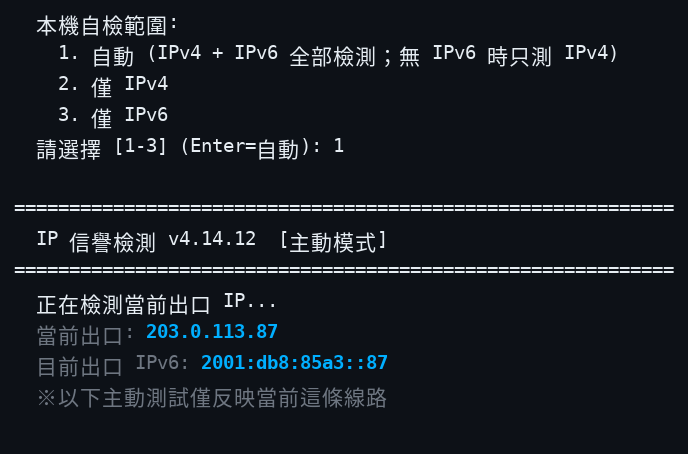
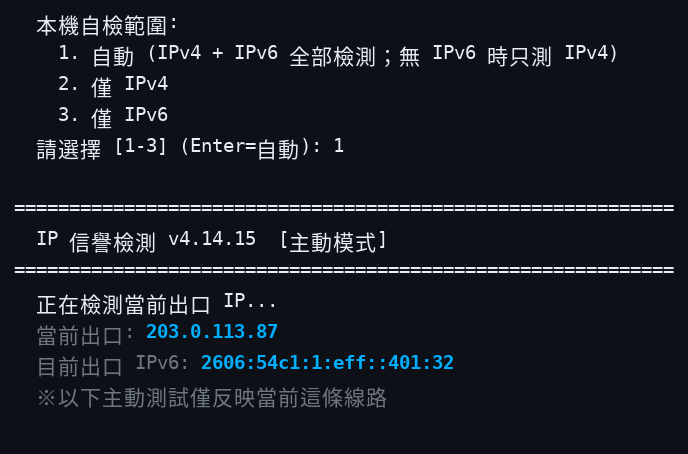
update

Changed region(s): [[0.3052, 0.7709, 0.6715, 0.8326]]

diff --git a/acheck.py b/acheck.py
@@ -1,6 +1,6 @@
 #!/usr/bin/env python3
 """
-IP 信誉检测 v4.14.14 — 全量修复与并发优化公开版 (零 API Key 依赖)
+IP 信誉检测 v4.14.15 — 全量修复与并发优化公开版 (零 API Key 依赖)
 
 被动模式: 仅凭 IP 地址做公开情报查询，不发起任何指向该 IP 的主动连接。
   适用: 评估尚未启用的候选 IP (如 AWS EIP)。
@@ -46,14 +46,14 @@ import unicodedata
 import urllib.error
 import urllib.parse
 import urllib.request
-from concurrent.futures import ThreadPoolExecutor, as_completed
+from concurrent.futures import ThreadPoolExecutor, as_completed, TimeoutError as _CFTimeoutError
 from datetime import datetime, timezone
 import argparse
 import http.client
 
 # stdio 编码初始化统一在 _init_console() 内进行 (仅主程序运行时), import 本文件不产生副作用。
 
-VERSION = "4.14.14"
+VERSION = "4.14.15"
 
 
 def _init_console():
@@ -2088,6 +2088,11 @@ class PTRCheck(Provider):
 # ---- 显示层本地化查表 (数据源无语言参数时, 国家名/时区名按界面语言呈现) ----
 _CC_EN = {'united states': 'US', 'united states of america': 'US', 'canada': 'CA', 'germany': 'DE', 'france': 'FR', 'japan': 'JP', 'south korea': 'KR', 'korea': 'KR', 'singapore': 'SG', 'india': 'IN', 'brazil': 'BR', 'russia': 'RU', 'united kingdom': 'GB', 'netherlands': 'NL', 'switzerland': 'CH', 'sweden': 'SE', 'norway': 'NO', 'finland': 'FI', 'denmark': 'DK', 'austria': 'AT', 'belgium': 'BE', 'ireland': 'IE', 'poland': 'PL', 'turkey': 'TR', 'mexico': 'MX', 'argentina': 'AR', 'chile': 'CL', 'colombia': 'CO', 'peru': 'PE', 'egypt': 'EG', 'nigeria': 'NG', 'kenya': 'KE', 'morocco': 'MA', 'israel': 'IL', 'united arab emirates': 'AE', 'saudi arabia': 'SA', 'qatar': 'QA', 'kuwait': 'KW', 'iran': 'IR', 'iraq': 'IQ', 'pakistan': 'PK', 'bangladesh': 'BD', 'thailand': 'TH', 'vietnam': 'VN', 'indonesia': 'ID', 'malaysia': 'MY', 'philippines': 'PH', 'taiwan': 'TW', 'hong kong': 'HK', 'china': 'CN', 'australia': 'AU', 'new zealand': 'NZ', 'south africa': 'ZA', 'greece': 'GR', 'portugal': 'PT', 'czechia': 'CZ', 'hungary': 'HU', 'romania': 'RO', 'ukraine': 'UA', 'italy': 'IT', 'spain': 'ES'}
 _COUNTRY_NAMES = {'zh': {'US': '美国', 'CA': '加拿大', 'DE': '德国', 'FR': '法国', 'JP': '日本', 'KR': '韩国', 'SG': '新加坡', 'IN': '印度', 'BR': '巴西', 'RU': '俄罗斯', 'GB': '英国', 'NL': '荷兰', 'CH': '瑞士', 'SE': '瑞典', 'NO': '挪威', 'FI': '芬兰', 'DK': '丹麦', 'AT': '奥地利', 'BE': '比利时', 'IE': '爱尔兰', 'PL': '波兰', 'TR': '土耳其', 'MX': '墨西哥', 'AR': '阿根廷', 'CL': '智利', 'CO': '哥伦比亚', 'PE': '秘鲁', 'EG': '埃及', 'NG': '尼日利亚', 'KE': '肯尼亚', 'MA': '摩洛哥', 'IL': '以色列', 'AE': '阿联酋', 'SA': '沙特阿拉伯', 'QA': '卡塔尔', 'KW': '科威特', 'IR': '伊朗', 'IQ': '伊拉克', 'PK': '巴基斯坦', 'BD': '孟加拉国', 'TH': '泰国', 'VN': '越南', 'ID': '印度尼西亚', 'MY': '马来西亚', 'PH': '菲律宾', 'TW': '台湾', 'HK': '香港', 'CN': '中国', 'AU': '澳大利亚', 'NZ': '新西兰', 'ZA': '南非', 'GR': '希腊', 'PT': '葡萄牙', 'CZ': '捷克', 'HU': '匈牙利', 'RO': '罗马尼亚', 'UA': '乌克兰', 'IT': '意大利', 'ES': '西班牙'}, 'zh-TW': {'US': '美國', 'CA': '加拿大', 'DE': '德國', 'FR': '法國', 'JP': '日本', 'KR': '韓國', 'SG': '新加坡', 'IN': '印度', 'BR': '巴西', 'RU': '俄羅斯', 'GB': '英國', 'NL': '荷蘭', 'CH': '瑞士', 'SE': '瑞典', 'NO': '挪威', 'FI': '芬蘭', 'DK': '丹麥', 'AT': '奧地利', 'BE': '比利時', 'IE': '愛爾蘭', 'PL': '波蘭', 'TR': '土耳其', 'MX': '墨西哥', 'AR': '阿根廷', 'CL': '智利', 'CO': '哥倫比亞', 'PE': '秘魯', 'EG': '埃及', 'NG': '奈及利亞', 'KE': '肯亞', 'MA': '摩洛哥', 'IL': '以色列', 'AE': '阿聯酋', 'SA': '沙烏地阿拉伯', 'QA': '卡達', 'KW': '科威特', 'IR': '伊朗', 'IQ': '伊拉克', 'PK': '巴基斯坦', 'BD': '孟加拉國', 'TH': '泰國', 'VN': '越南', 'ID': '印度尼西亞', 'MY': '馬來西亞', 'PH': '菲律賓', 'TW': '台灣', 'HK': '香港', 'CN': '中國', 'AU': '澳大利亞', 'NZ': '紐西蘭', 'ZA': '南非', 'GR': '希臘', 'PT': '葡萄牙', 'CZ': '捷克', 'HU': '匈牙利', 'RO': '羅馬尼亞', 'UA': '烏克蘭', 'IT': '義大利', 'ES': '西班牙'}, 'ja': {'US': 'アメリカ', 'CA': 'カナダ', 'DE': 'ドイツ', 'FR': 'フランス', 'JP': '日本', 'KR': '韓国', 'SG': 'シンガポール', 'IN': 'インド', 'BR': 'ブラジル', 'RU': 'ロシア', 'GB': 'イギリス', 'NL': 'オランダ', 'CH': 'スイス', 'SE': 'スウェーデン', 'NO': 'ノルウェー', 'FI': 'フィンランド', 'DK': 'デンマーク', 'AT': 'オーストリア', 'BE': 'ベルギー', 'IE': 'アイルランド', 'PL': 'ポーランド', 'TR': 'トルコ', 'MX': 'メキシコ', 'AR': 'アルゼンチン', 'CL': 'チリ', 'CO': 'コロンビア', 'PE': 'ペルー', 'EG': 'エジプト', 'NG': 'ナイジェリア', 'KE': 'ケニア', 'MA': 'モロッコ', 'IL': 'イスラエル', 'AE': 'アラブ首長国連邦', 'SA': 'サウジアラビア', 'QA': 'カタール', 'KW': 'クウェート', 'IR': 'イラン', 'IQ': 'イラク', 'PK': 'パキスタン', 'BD': 'バングラデシュ', 'TH': 'タイ', 'VN': 'ベトナム', 'ID': 'インドネシア', 'MY': 'マレーシア', 'PH': 'フィリピン', 'TW': '台湾', 'HK': '香港', 'CN': '中国', 'AU': 'オーストラリア', 'NZ': 'ニュージーランド', 'ZA': '南アフリカ', 'GR': 'ギリシャ', 'PT': 'ポルトガル', 'CZ': 'チェコ', 'HU': 'ハンガリー', 'RO': 'ルーマニア', 'UA': 'ウクライナ', 'IT': 'イタリア', 'ES': 'スペイン'}, 'ru': {'US': 'США', 'CA': 'Канада', 'DE': 'Германия', 'FR': 'Франция', 'JP': 'Япония', 'KR': 'Южная Корея', 'SG': 'Сингапур', 'IN': 'Индия', 'BR': 'Бразилия', 'RU': 'Россия', 'GB': 'Великобритания', 'NL': 'Нидерланды', 'CH': 'Швейцария', 'SE': 'Швеция', 'NO': 'Норвегия', 'FI': 'Финляндия', 'DK': 'Дания', 'AT': 'Австрия', 'BE': 'Бельгия', 'IE': 'Ирландия', 'PL': 'Польша', 'TR': 'Турция', 'MX': 'Мексика', 'AR': 'Аргентина', 'CL': 'Чили', 'CO': 'Колумбия', 'PE': 'Перу', 'EG': 'Египет', 'NG': 'Нигерия', 'KE': 'Кения', 'MA': 'Марокко', 'IL': 'Израиль', 'AE': 'ОАЭ', 'SA': 'Саудовская Аравия', 'QA': 'Катар', 'KW': 'Кувейт', 'IR': 'Иран', 'IQ': 'Ирак', 'PK': 'Пакистан', 'BD': 'Бангладеш', 'TH': 'Таиланд', 'VN': 'Вьетнам', 'ID': 'Индонезия', 'MY': 'Малайзия', 'PH': 'Филиппины', 'TW': 'Тайвань', 'HK': 'Гонконг', 'CN': 'Китай', 'AU': 'Австралия', 'NZ': 'Новая Зеландия', 'ZA': 'ЮАР', 'GR': 'Греция', 'PT': 'Португалия', 'CZ': 'Чехия', 'HU': 'Венгрия', 'RO': 'Румыния', 'UA': 'Украина', 'IT': 'Италия', 'ES': 'Испания'}, 'fa': {'US': 'آمریکا', 'CA': 'کانادا', 'DE': 'آلمان', 'FR': 'فرانسه', 'JP': 'ژاپن', 'KR': 'کره جنوبی', 'SG': 'سنگاپور', 'IN': 'هند', 'BR': 'برزیل', 'RU': 'روسیه', 'GB': 'بریتانیا', 'NL': 'هلند', 'CH': 'سوئیس', 'SE': 'سوئد', 'NO': 'نروژ', 'FI': 'فنلاند', 'DK': 'دانمارک', 'AT': 'اتریش', 'BE': 'بلژیک', 'IE': 'ایرلند', 'PL': 'لهستان', 'TR': 'ترکیه', 'MX': 'مکزیک', 'AR': 'آرژانتین', 'CL': 'شیلی', 'CO': 'کلمبیا', 'PE': 'پرو', 'EG': 'مصر', 'NG': 'نیجریه', 'KE': 'کنیا', 'MA': 'مراکش', 'IL': 'اسرائیل', 'AE': 'امارات', 'SA': 'عربستان سعودی', 'QA': 'قطر', 'KW': 'کویت', 'IR': 'ایران', 'IQ': 'عراق', 'PK': 'پاکستان', 'BD': 'بنگلادش', 'TH': 'تایلند', 'VN': 'ویتنام', 'ID': 'اندونزی', 'MY': 'مالزی', 'PH': 'فیلیپین', 'TW': 'تایوان', 'HK': 'هنگ\u200cکنگ', 'CN': 'چین', 'AU': 'استرالیا', 'NZ': 'نیوزیلند', 'ZA': 'آفریقای جنوبی', 'GR': 'یونان', 'PT': 'پرتغال', 'CZ': 'چک', 'HU': 'مجارستان', 'RO': 'رومانی', 'UA': 'اوکراین', 'IT': 'ایتالیا', 'ES': 'اسپانیا'}}
+_CC_EN.update({'afghanistan': 'AF', 'albania': 'AL', 'algeria': 'DZ', 'american samoa': 'AS', 'andorra': 'AD', 'angola': 'AO', 'anguilla': 'AI', 'antarctica': 'AQ', 'antigua and barbuda': 'AG', 'armenia': 'AM', 'aruba': 'AW', 'azerbaijan': 'AZ', 'bahamas': 'BS', 'bahrain': 'BH', 'barbados': 'BB', 'belarus': 'BY', 'belize': 'BZ', 'benin': 'BJ', 'bermuda': 'BM', 'bhutan': 'BT', 'bolivia': 'BO', 'bosnia and herzegovina': 'BA', 'botswana': 'BW', 'brunei': 'BN', 'bulgaria': 'BG', 'burkina faso': 'BF', 'burundi': 'BI', 'cambodia': 'KH', 'cameroon': 'CM', 'cape verde': 'CV', 'cayman islands': 'KY', 'central african republic': 'CF', 'chad': 'TD', 'comoros': 'KM', 'congo': 'CG', 'congo (democratic republic)': 'CD', 'cook islands': 'CK', 'costa rica': 'CR', 'croatia': 'HR', 'cuba': 'CU', 'cyprus': 'CY', 'djibouti': 'DJ', 'dominica': 'DM', 'dominican republic': 'DO', 'ecuador': 'EC', 'el salvador': 'SV', 'equatorial guinea': 'GQ', 'eritrea': 'ER', 'estonia': 'EE', 'eswatini': 'SZ', 'ethiopia': 'ET', 'falkland islands': 'FK', 'faroe islands': 'FO', 'fiji': 'FJ', 'gabon': 'GA', 'gambia': 'GM', 'georgia': 'GE', 'ghana': 'GH', 'gibraltar': 'GI', 'greenland': 'GL', 'grenada': 'GD', 'guam': 'GU', 'guatemala': 'GT', 'guinea': 'GN', 'guinea-bissau': 'GW', 'guyana': 'GY', 'haiti': 'HT', 'honduras': 'HN', 'iceland': 'IS', 'jamaica': 'JM', 'jordan': 'JO', 'kazakhstan': 'KZ', 'kiribati': 'KI', 'kosovo': 'XK', 'kyrgyzstan': 'KG', 'laos': 'LA', 'latvia': 'LV', 'lebanon': 'LB', 'lesotho': 'LS', 'liberia': 'LR', 'libya': 'LY', 'liechtenstein': 'LI', 'lithuania': 'LT', 'luxembourg': 'LU', 'macau': 'MO', 'madagascar': 'MG', 'malawi': 'MW', 'maldives': 'MV', 'mali': 'ML', 'malta': 'MT', 'marshall islands': 'MH', 'mauritania': 'MR', 'mauritius': 'MU', 'micronesia': 'FM', 'moldova': 'MD', 'monaco': 'MC', 'mongolia': 'MN', 'montenegro': 'ME', 'mozambique': 'MZ', 'myanmar': 'MM', 'namibia': 'NA', 'nepal': 'NP', 'nicaragua': 'NI', 'niger': 'NE', 'north korea': 'KP', 'north macedonia': 'MK', 'northern mariana islands': 'MP', 'oman': 'OM', 'palau': 'PW', 'palestine': 'PS', 'panama': 'PA', 'papua new guinea': 'PG', 'paraguay': 'PY', 'puerto rico': 'PR', 'rwanda': 'RW', 'saint kitts and nevis': 'KN', 'saint lucia': 'LC', 'samoa': 'WS', 'san marino': 'SM', 'sao tome and principe': 'ST', 'senegal': 'SN', 'serbia': 'RS', 'seychelles': 'SC', 'sierra leone': 'SL', 'slovakia': 'SK', 'slovenia': 'SI', 'solomon islands': 'SB', 'somalia': 'SO', 'south sudan': 'SS', 'sri lanka': 'LK', 'sudan': 'SD', 'suriname': 'SR', 'syria': 'SY', 'tajikistan': 'TJ', 'tanzania': 'TZ', 'timor-leste': 'TL', 'togo': 'TG', 'tonga': 'TO', 'trinidad and tobago': 'TT', 'tunisia': 'TN', 'turkmenistan': 'TM', 'tuvalu': 'TV', 'uganda': 'UG', 'uruguay': 'UY', 'uzbekistan': 'UZ', 'vanuatu': 'VU', 'venezuela': 'VE', 'yemen': 'YE', 'zambia': 'ZM', 'zimbabwe': 'ZW', 'guernsey': 'GG', 'jersey': 'JE', 'isle of man': 'IM', 'aland': 'AX', 'curacao': 'CW', 'sint maarten': 'SX', 'bonaire': 'BQ', 'saint barthelemy': 'BL', 'saint martin': 'MF', 'mayotte': 'YT', 'reunion': 'RE', 'martinique': 'MQ', 'guadeloupe': 'GP', 'french guiana': 'GF', 'french polynesia': 'PF', 'new caledonia': 'NC', 'niue': 'NU', 'norfolk island': 'NF', 'christmas island': 'CX', 'pitcairn': 'PN', 'saint helena': 'SH', 'montserrat': 'MS', 'british virgin islands': 'VG', 'u.s. virgin islands': 'VI', 'turks and caicos': 'TC'})
+_EXTRA_CN = {'zh': {'AF': '阿富汗', 'AL': '阿尔巴尼亚', 'DZ': '阿尔及利亚', 'AS': '美属萨摩亚', 'AD': '安道尔', 'AO': '安哥拉', 'AI': '安圭拉', 'AQ': '南极洲', 'AG': '安提瓜和巴布达', 'AM': '亚美尼亚', 'AW': '阿鲁巴', 'AZ': '阿塞拜疆', 'BS': '巴哈马', 'BH': '巴林', 'BB': '巴巴多斯', 'BY': '白俄罗斯', 'BZ': '伯利兹', 'BJ': '贝宁', 'BM': '百慕大', 'BT': '不丹', 'BO': '玻利维亚', 'BA': '波黑', 'BW': '博茨瓦纳', 'BN': '文莱', 'BG': '保加利亚', 'BF': '布基纳法索', 'BI': '布隆迪', 'KH': '柬埔寨', 'CM': '喀麦隆', 'CV': '佛得角', 'KY': '开曼群岛', 'CF': '中非共和国', 'TD': '乍得', 'KM': '科摩罗', 'CG': '刚果（布）', 'CD': '刚果（金）', 'CK': '库克群岛', 'CR': '哥斯达黎加', 'HR': '克罗地亚', 'CU': '古巴', 'CY': '塞浦路斯', 'DJ': '吉布提', 'DM': '多米尼克', 'DO': '多米尼加', 'EC': '厄瓜多尔', 'SV': '萨尔瓦多', 'GQ': '赤道几内亚', 'ER': '厄立特里亚', 'EE': '爱沙尼亚', 'SZ': '斯威士兰', 'ET': '埃塞俄比亚', 'FK': '福克兰群岛', 'FO': '法罗群岛', 'FJ': '斐济', 'GA': '加蓬', 'GM': '冈比亚', 'GE': '格鲁吉亚', 'GH': '加纳', 'GI': '直布罗陀', 'GL': '格陵兰', 'GD': '格林纳达', 'GU': '关岛', 'GT': '危地马拉', 'GN': '几内亚', 'GW': '几内亚比绍', 'GY': '圭亚那', 'HT': '海地', 'HN': '洪都拉斯', 'IS': '冰岛', 'JM': '牙买加', 'JO': '约旦', 'KZ': '哈萨克斯坦', 'KI': '基里巴斯', 'XK': '科索沃', 'KG': '吉尔吉斯斯坦', 'LA': '老挝', 'LV': '拉脱维亚', 'LB': '黎巴嫩', 'LS': '莱索托', 'LR': '利比里亚', 'LY': '利比亚', 'LI': '列支敦士登', 'LT': '立陶宛', 'LU': '卢森堡', 'MO': '澳门', 'MG': '马达加斯加', 'MW': '马拉维', 'MV': '马尔代夫', 'ML': '马里', 'MT': '马耳他', 'MH': '马绍尔群岛', 'MR': '毛里塔尼亚', 'MU': '毛里求斯', 'FM': '密克罗尼西亚', 'MD': '摩尔多瓦', 'MC': '摩纳哥', 'MN': '蒙古', 'ME': '黑山', 'MZ': '莫桑比克', 'MM': '缅甸', 'NA': '纳米比亚', 'NP': '尼泊尔', 'NI': '尼加拉瓜', 'NE': '尼日尔', 'KP': '朝鲜', 'MK': '北马其顿', 'MP': '北马里亚纳群岛', 'OM': '阿曼', 'PW': '帕劳', 'PS': '巴勒斯坦', 'PA': '巴拿马', 'PG': '巴布亚新几内亚', 'PY': '巴拉圭', 'PR': '波多黎各', 'RW': '卢旺达', 'KN': '圣基茨和尼维斯', 'LC': '圣卢西亚', 'WS': '萨摩亚', 'SM': '圣马力诺', 'ST': '圣多美和普林西比', 'SN': '塞内加尔', 'RS': '塞尔维亚', 'SC': '塞舌尔', 'SL': '塞拉利昂', 'SK': '斯洛伐克', 'SI': '斯洛文尼亚', 'SB': '所罗门群岛', 'SO': '索马里', 'SS': '南苏丹', 'LK': '斯里兰卡', 'SD': '苏丹', 'SR': '苏里南', 'SY': '叙利亚', 'TJ': '塔吉克斯坦', 'TZ': '坦桑尼亚', 'TL': '东帝汶', 'TG': '多哥', 'TO': '汤加', 'TT': '特立尼达和多巴哥', 'TN': '突尼斯', 'TM': '土库曼斯坦', 'TV': '图瓦卢', 'UG': '乌干达', 'UY': '乌拉圭', 'UZ': '乌兹别克斯坦', 'VU': '瓦努阿图', 'VE': '委内瑞拉', 'YE': '也门', 'ZM': '赞比亚', 'ZW': '津巴布韦', 'GG': '根西岛', 'JE': '泽西岛', 'IM': '马恩岛', 'AX': '奥兰群岛', 'CW': '库拉索', 'SX': '圣马丁（荷属）', 'BQ': '博奈尔', 'BL': '圣巴泰勒米', 'MF': '圣马丁（法属）', 'YT': '马约特', 'RE': '留尼汪', 'MQ': '马提尼克', 'GP': '瓜德罗普', 'GF': '法属圭亚那', 'PF': '法属波利尼西亚', 'NC': '新喀里多尼亚', 'NU': '纽埃', 'NF': '诺福克岛', 'CX': '圣诞岛', 'PN': '皮特凯恩群岛', 'SH': '圣赫勒拿', 'MS': '蒙特塞拉特', 'VG': '英属维尔京群岛', 'VI': '美属维尔京群岛', 'TC': '特克斯和凯科斯群岛'}, 'zh-TW': {'AF': '阿富汗', 'AL': '阿爾巴尼亞', 'DZ': '阿爾及利亞', 'AS': '美屬薩摩亞', 'AD': '安道爾', 'AO': '安哥拉', 'AI': '安圭拉', 'AQ': '南極洲', 'AG': '安提瓜和巴布達', 'AM': '亞美尼亞', 'AW': '阿魯巴', 'AZ': '亞塞拜然', 'BS': '巴哈馬', 'BH': '巴林', 'BB': '巴巴多斯', 'BY': '白俄羅斯', 'BZ': '貝里斯', 'BJ': '貝南', 'BM': '百慕達', 'BT': '不丹', 'BO': '玻利維亞', 'BA': '波赫', 'BW': '波札那', 'BN': '汶萊', 'BG': '保加利亞', 'BF': '布基納法索', 'BI': '布隆迪', 'KH': '柬埔寨', 'CM': '喀麥隆', 'CV': '維德角', 'KY': '開曼群島', 'CF': '中非共和國', 'TD': '查德', 'KM': '葛摩', 'CG': '剛果（布）', 'CD': '剛果（金）', 'CK': '庫克群島', 'CR': '哥斯大黎加', 'HR': '克羅埃西亞', 'CU': '古巴', 'CY': '塞浦路斯', 'DJ': '吉布提', 'DM': '多米尼克', 'DO': '多明尼加', 'EC': '厄瓜多', 'SV': '薩爾瓦多', 'GQ': '赤道幾內亞', 'ER': '厄利垂亞', 'EE': '愛沙尼亞', 'SZ': '史瓦帝尼', 'ET': '衣索比亞', 'FK': '福克蘭群島', 'FO': '法羅群島', 'FJ': '斐濟', 'GA': '加彭', 'GM': '甘比亞', 'GE': '喬治亞', 'GH': '迦納', 'GI': '直布羅陀', 'GL': '格陵蘭', 'GD': '格瑞那達', 'GU': '關島', 'GT': '瓜地馬拉', 'GN': '幾內亞', 'GW': '幾內亞比索', 'GY': '蓋亞那', 'HT': '海地', 'HN': '宏都拉斯', 'IS': '冰島', 'JM': '牙買加', 'JO': '約旦', 'KZ': '哈薩克斯坦', 'KI': '吉里巴斯', 'XK': '科索沃', 'KG': '吉爾吉斯斯坦', 'LA': '寮國', 'LV': '拉脫維亞', 'LB': '黎巴嫩', 'LS': '賴索托', 'LR': '賴比瑞亞', 'LY': '利比亞', 'LI': '列支敦斯登', 'LT': '立陶宛', 'LU': '盧森堡', 'MO': '澳門', 'MG': '馬達加斯加', 'MW': '馬拉威', 'MV': '馬爾地夫', 'ML': '馬利', 'MT': '馬耳他', 'MH': '馬紹爾群島', 'MR': '茅利塔尼亞', 'MU': '模里西斯', 'FM': '密克羅尼西亞', 'MD': '摩爾多瓦', 'MC': '摩納哥', 'MN': '蒙古', 'ME': '蒙特內哥羅', 'MZ': '莫三比克', 'MM': '緬甸', 'NA': '納米比亞', 'NP': '尼泊爾', 'NI': '尼加拉瓜', 'NE': '尼日', 'KP': '北韓', 'MK': '北馬其頓', 'MP': '北馬里亞納群島', 'OM': '阿曼', 'PW': '帛琉', 'PS': '巴勒斯坦', 'PA': '巴拿馬', 'PG': '巴布亞紐幾內亞', 'PY': '巴拉圭', 'PR': '波多黎各', 'RW': '盧安達', 'KN': '聖基茨和尼維斯', 'LC': '聖露西亞', 'WS': '薩摩亞', 'SM': '聖馬利諾', 'ST': '聖多美和普林西比', 'SN': '塞內加爾', 'RS': '塞爾維亞', 'SC': '塞舌爾', 'SL': '塞拉利昂', 'SK': '斯洛伐克', 'SI': '斯洛維尼亞', 'SB': '所羅門群島', 'SO': '索馬利亞', 'SS': '南蘇丹', 'LK': '斯里蘭卡', 'SD': '蘇丹', 'SR': '蘇利南', 'SY': '敘利亞', 'TJ': '塔吉克斯坦', 'TZ': '坦尚尼亞', 'TL': '東帝汶', 'TG': '多哥', 'TO': '東加', 'TT': '特立尼達和多巴哥', 'TN': '突尼西亞', 'TM': '土庫曼斯坦', 'TV': '圖瓦盧', 'UG': '烏干達', 'UY': '烏拉圭', 'UZ': '烏茲別克斯坦', 'VU': '瓦努阿圖', 'VE': '委內瑞拉', 'YE': '葉門', 'ZM': '贊比亞', 'ZW': '津巴布韋', 'GG': '根西島', 'JE': '澤西島', 'IM': '馬恩島', 'AX': '奧蘭群島', 'CW': '庫拉索', 'SX': '聖馬丁（荷屬）', 'BQ': '博奈爾', 'BL': '聖巴泰勒米', 'MF': '聖馬丁（法屬）', 'YT': '馬約特', 'RE': '留尼汪', 'MQ': '馬提尼克', 'GP': '瓜德羅普', 'GF': '法屬圭亞那', 'PF': '法屬波利尼西亞', 'NC': '新喀里多尼亞', 'NU': '紐埃', 'NF': '諾福克島', 'CX': '聖誕島', 'PN': '皮特凱恩群島', 'SH': '聖赫勒拿', 'MS': '蒙特塞拉特', 'VG': '英屬維爾京群島', 'VI': '美屬維爾京群島', 'TC': '特克斯和凱科斯群島'}, 'ja': {'AF': 'アフガニスタン', 'AL': 'アルバニア', 'DZ': 'アルジェリア', 'AS': '米領サモア', 'AD': 'アンドラ', 'AO': 'アンゴラ', 'AI': 'アンギラ', 'AQ': '南極', 'AG': 'アンティグア・バーブーダ', 'AM': 'アルメニア', 'AW': 'アルバ', 'AZ': 'アゼルバイジャン', 'BS': 'バハマ', 'BH': 'バーレーン', 'BB': 'バルバドス', 'BY': 'ベラルーシ', 'BZ': 'ベリーズ', 'BJ': 'ベナン', 'BM': 'バミューダ', 'BT': 'ブータン', 'BO': 'ボリビア', 'BA': 'ボスニア・ヘルツェゴビナ', 'BW': 'ボツワナ', 'BN': 'ブルネイ', 'BG': 'ブルガリア', 'BF': 'ブルキナファソ', 'BI': 'ブルンジ', 'KH': 'カンボジア', 'CM': 'カメルーン', 'CV': 'カーボベルデ', 'KY': 'ケイマン諸島', 'CF': '中央アフリカ', 'TD': 'チャド', 'KM': 'コモロ', 'CG': 'コンゴ共和国', 'CD': 'コンゴ民主共和国', 'CK': 'クック諸島', 'CR': 'コスタリカ', 'HR': 'クロアチア', 'CU': 'キューバ', 'CY': 'キプロス', 'DJ': 'ジブチ', 'DM': 'ドミニカ国', 'DO': 'ドミニカ共和国', 'EC': 'エクアドル', 'SV': 'エルサルバドル', 'GQ': '赤道ギニア', 'ER': 'エリトリア', 'EE': 'エストニア', 'SZ': 'エスワティニ', 'ET': 'エチオピア', 'FK': 'フォークランド諸島', 'FO': 'フェロー諸島', 'FJ': 'フィジー', 'GA': 'ガボン', 'GM': 'ガンビア', 'GE': 'ジョージア', 'GH': 'ガーナ', 'GI': 'ジブラルタル', 'GL': 'グリーンランド', 'GD': 'グレナダ', 'GU': 'グアム', 'GT': 'グアテマラ', 'GN': 'ギニア', 'GW': 'ギニアビサウ', 'GY': 'ガイアナ', 'HT': 'ハイチ', 'HN': 'ホンジュラス', 'IS': 'アイスランド', 'JM': 'ジャマイカ', 'JO': 'ヨルダン', 'KZ': 'カザフスタン', 'KI': 'キリバス', 'XK': 'コソボ', 'KG': 'キルギス', 'LA': 'ラオス', 'LV': 'ラトビア', 'LB': 'レバノン', 'LS': 'レソト', 'LR': 'リベリア', 'LY': 'リビア', 'LI': 'リヒテンシュタイン', 'LT': 'リトアニア', 'LU': 'ルクセンブルク', 'MO': 'マカオ', 'MG': 'マダガスカル', 'MW': 'マラウイ', 'MV': 'モルディブ', 'ML': 'マリ', 'MT': 'マルタ', 'MH': 'マーシャル諸島', 'MR': 'モーリタニア', 'MU': 'モーリシャス', 'FM': 'ミクロネシア', 'MD': 'モルドバ', 'MC': 'モナコ', 'MN': 'モンゴル', 'ME': 'モンテネグロ', 'MZ': 'モザンビーク', 'MM': 'ミャンマー', 'NA': 'ナミビア', 'NP': 'ネパール', 'NI': 'ニカラグア', 'NE': 'ニジェール', 'KP': '北朝鮮', 'MK': '北マケドニア', 'MP': '北マリアナ諸島', 'OM': 'オマーン', 'PW': 'パラオ', 'PS': 'パレスチナ', 'PA': 'パナマ', 'PG': 'パプアニューギニア', 'PY': 'パラグアイ', 'PR': 'プエルトリコ', 'RW': 'ルワンダ', 'KN': 'セントクリストファー・ネイビス', 'LC': 'セントルシア', 'WS': 'サモア', 'SM': 'サンマリノ', 'ST': 'サントメ・プリンシペ', 'SN': 'セネガル', 'RS': 'セルビア', 'SC': 'セーシェル', 'SL': 'シエラレオネ', 'SK': 'スロバキア', 'SI': 'スロベニア', 'SB': 'ソロモン諸島', 'SO': 'ソマリア', 'SS': '南スーダン', 'LK': 'スリランカ', 'SD': 'スーダン', 'SR': 'スリナム', 'SY': 'シリア', 'TJ': 'タジキスタン', 'TZ': 'タンザニア', 'TL': '東ティモール', 'TG': 'トーゴ', 'TO': 'トンガ', 'TT': 'トリニダード・トバゴ', 'TN': 'チュニジア', 'TM': 'トルクメニスタン', 'TV': 'ツバル', 'UG': 'ウガンダ', 'UY': 'ウルグアイ', 'UZ': 'ウズベキスタン', 'VU': 'バヌアツ', 'VE': 'ベネズエラ', 'YE': 'イエメン', 'ZM': 'ザンビア', 'ZW': 'ジンバブエ', 'GG': 'ガーンジー', 'JE': 'ジャージー', 'IM': 'マン島', 'AX': 'オーランド諸島', 'CW': 'キュラソー', 'SX': 'シント・マールテン', 'BQ': 'ボネール', 'BL': 'サン・バルテルミー', 'MF': 'サン・マルタン', 'YT': 'マヨット', 'RE': 'レユニオン', 'MQ': 'マルティニーク', 'GP': 'グアドループ', 'GF': 'フランス領ギアナ', 'PF': 'フランス領ポリネシア', 'NC': 'ニューカレドニア', 'NU': 'ニウエ', 'NF': 'ノーフォーク島', 'CX': 'クリスマス島', 'PN': 'ピトケアン諸島', 'SH': 'セントヘレナ', 'MS': 'モントセラト', 'VG': '英領バージン諸島', 'VI': '米領バージン諸島', 'TC': 'タークス・カイコス諸島'}, 'ru': {'AF': 'Афганистан', 'AL': 'Албания', 'DZ': 'Алжир', 'AS': 'Американское Самоа', 'AD': 'Андорра', 'AO': 'Ангола', 'AI': 'Ангилья', 'AQ': 'Антарктида', 'AG': 'Антигуа и Барбуда', 'AM': 'Армения', 'AW': 'Аруба', 'AZ': 'Азербайджан', 'BS': 'Багамы', 'BH': 'Бахрейн', 'BB': 'Барбадос', 'BY': 'Беларусь', 'BZ': 'Белиз', 'BJ': 'Бенин', 'BM': 'Бермуды', 'BT': 'Бутан', 'BO': 'Боливия', 'BA': 'Босния и Герцеговина', 'BW': 'Ботсвана', 'BN': 'Бруней', 'BG': 'Болгария', 'BF': 'Буркина-Фасо', 'BI': 'Бурунди', 'KH': 'Камбоджа', 'CM': 'Камерун', 'CV': 'Кабо-Верде', 'KY': 'Каймановы острова', 'CF': 'ЦАР', 'TD': 'Чад', 'KM': 'Коморы', 'CG': 'Конго', 'CD': 'ДР Конго', 'CK': 'Острова Кука', 'CR': 'Коста-Рика', 'HR': 'Хорватия', 'CU': 'Куба', 'CY': 'Кипр', 'DJ': 'Джибути', 'DM': 'Доминика', 'DO': 'Доминиканская Республика', 'EC': 'Эквадор', 'SV': 'Сальвадор', 'GQ': 'Экваториальная Гвинея', 'ER': 'Эритрея', 'EE': 'Эстония', 'SZ': 'Эсватини', 'ET': 'Эфиопия', 'FK': 'Фолклендские острова', 'FO': 'Фарерские острова', 'FJ': 'Фиджи', 'GA': 'Габон', 'GM': 'Гамбия', 'GE': 'Грузия', 'GH': 'Гана', 'GI': 'Гибралтар', 'GL': 'Гренландия', 'GD': 'Гренада', 'GU': 'Гуам', 'GT': 'Гватемала', 'GN': 'Гвинея', 'GW': 'Гвинея-Бисау', 'GY': 'Гайана', 'HT': 'Гаити', 'HN': 'Гондурас', 'IS': 'Исландия', 'JM': 'Ямайка', 'JO': 'Иордания', 'KZ': 'Казахстан', 'KI': 'Кирибати', 'XK': 'Косово', 'KG': 'Киргизия', 'LA': 'Лаос', 'LV': 'Латвия', 'LB': 'Ливан', 'LS': 'Лесото', 'LR': 'Либерия', 'LY': 'Ливия', 'LI': 'Лихтенштейн', 'LT': 'Литва', 'LU': 'Люксембург', 'MO': 'Макао', 'MG': 'Мадагаскар', 'MW': 'Малави', 'MV': 'Мальдивы', 'ML': 'Мали', 'MT': 'Мальта', 'MH': 'Маршалловы Острова', 'MR': 'Мавритания', 'MU': 'Маврикий', 'FM': 'Микронезия', 'MD': 'Молдова', 'MC': 'Монако', 'MN': 'Монголия', 'ME': 'Черногория', 'MZ': 'Мозамбик', 'MM': 'Мьянма', 'NA': 'Намибия', 'NP': 'Непал', 'NI': 'Никарагуа', 'NE': 'Нигер', 'KP': 'Северная Корея', 'MK': 'Северная Македония', 'MP': 'Северные Марианские острова', 'OM': 'Оман', 'PW': 'Палау', 'PS': 'Палестина', 'PA': 'Панама', 'PG': 'Папуа — Новая Гвинея', 'PY': 'Парагвай', 'PR': 'Пуэрто-Рико', 'RW': 'Руанда', 'KN': 'Сент-Китс и Невис', 'LC': 'Сент-Люсия', 'WS': 'Самоа', 'SM': 'Сан-Марино', 'ST': 'Сан-Томе и Принсипи', 'SN': 'Сенегал', 'RS': 'Сербия', 'SC': 'Сейшелы', 'SL': 'Сьерра-Леоне', 'SK': 'Словакия', 'SI': 'Словения', 'SB': 'Соломоновы Острова', 'SO': 'Сомали', 'SS': 'Южный Судан', 'LK': 'Шри-Ланка', 'SD': 'Судан', 'SR': 'Суринам', 'SY': 'Сирия', 'TJ': 'Таджикистан', 'TZ': 'Танзания', 'TL': 'Восточный Тимор', 'TG': 'Того', 'TO': 'Тонга', 'TT': 'Тринидад и Тобаго', 'TN': 'Тунис', 'TM': 'Туркменистан', 'TV': 'Тувалу', 'UG': 'Уганда', 'UY': 'Уругвай', 'UZ': 'Узбекистан', 'VU': 'Вануату', 'VE': 'Венесуэла', 'YE': 'Йемен', 'ZM': 'Замбия', 'ZW': 'Зимбабве', 'GG': 'Гернси', 'JE': 'Джерси', 'IM': 'Остров Мэн', 'AX': 'Аландские острова', 'CW': 'Кюрасао', 'SX': 'Синт-Мартен', 'BQ': 'Бонайре', 'BL': 'Сен-Бартелеми', 'MF': 'Сен-Мартен', 'YT': 'Майотта', 'RE': 'Реюньон', 'MQ': 'Мартиника', 'GP': 'Гваделупа', 'GF': 'Французская Гвиана', 'PF': 'Французская Полинезия', 'NC': 'Новая Каледония', 'NU': 'Ниуэ', 'NF': 'Остров Норфолк', 'CX': 'Остров Рождества', 'PN': 'Питкэрн', 'SH': 'Остров Святой Елены', 'MS': 'Монтсеррат', 'VG': 'Британские Виргинские острова', 'VI': 'Американские Виргинские острова', 'TC': 'Теркс и Кайкос'}, 'fa': {'AF': 'افغانستان', 'AL': 'آلبانی', 'DZ': 'الجزایر', 'AS': 'ساموآی آمریکا', 'AD': 'آندورا', 'AO': 'آنگولا', 'AI': 'آنگویلا', 'AQ': 'جنوبگان', 'AG': 'آنتیگوا و باربودا', 'AM': 'ارمنستان', 'AW': 'آروبا', 'AZ': 'آذربایجان', 'BS': 'باهاما', 'BH': 'بحرین', 'BB': 'باربادوس', 'BY': 'بلاروس', 'BZ': 'بلیز', 'BJ': 'بنین', 'BM': 'برمودا', 'BT': 'بوتان', 'BO': 'بولیوی', 'BA': 'بوسنی و هرزگوین', 'BW': 'بوتسوانا', 'BN': 'برونئی', 'BG': 'بلغارستان', 'BF': 'بورکینافاسو', 'BI': 'بوروندی', 'KH': 'کامبوج', 'CM': 'کامرون', 'CV': 'کیپ ورد', 'KY': 'جزایر کیمن', 'CF': 'جمهوری آفریقای مرکزی', 'TD': 'چاد', 'KM': 'کومور', 'CG': 'کنگو', 'CD': 'جمهوری دموکراتیک کنگو', 'CK': 'جزایر کوک', 'CR': 'کاستاریکا', 'HR': 'کرواسی', 'CU': 'کوبا', 'CY': 'قبرس', 'DJ': 'جیبوتی', 'DM': 'دومینیکا', 'DO': 'جمهوری دومینیکن', 'EC': 'اکوادور', 'SV': 'السالوادور', 'GQ': 'گینه استوایی', 'ER': 'اریتره', 'EE': 'استونی', 'SZ': 'اسواتینی', 'ET': 'اتیوپی', 'FK': 'جزایر فالکلند', 'FO': 'جزایر فارو', 'FJ': 'فیجی', 'GA': 'گابن', 'GM': 'گامبیا', 'GE': 'گرجستان', 'GH': 'غنا', 'GI': 'جبل\u200cالطارق', 'GL': 'گرینلند', 'GD': 'گرنادا', 'GU': 'گوام', 'GT': 'گواتمالا', 'GN': 'گینه', 'GW': 'گینه بیسائو', 'GY': 'گویان', 'HT': 'هائیتی', 'HN': 'هندوراس', 'IS': 'ایسلند', 'JM': 'جامائیکا', 'JO': 'اردن', 'KZ': 'قزاقستان', 'KI': 'کیریباتی', 'XK': 'کوزوو', 'KG': 'قرقیزستان', 'LA': 'لائوس', 'LV': 'لتونی', 'LB': 'لبنان', 'LS': 'لسوتو', 'LR': 'لیبریا', 'LY': 'لیبی', 'LI': 'لیختن\u200cاشتاین', 'LT': 'لیتوانی', 'LU': 'لوکزامبورگ', 'MO': 'ماکائو', 'MG': 'ماداگاسکار', 'MW': 'مالاوی', 'MV': 'مالدیو', 'ML': 'مالی', 'MT': 'مالت', 'MH': 'جزایر مارشال', 'MR': 'موریتانی', 'MU': 'موریس', 'FM': 'میکرونزی', 'MD': 'مولداوی', 'MC': 'موناکو', 'MN': 'مغولستان', 'ME': 'مونته\u200cنگرو', 'MZ': 'موزامبیک', 'MM': 'میانمار', 'NA': 'نامیبیا', 'NP': 'نپال', 'NI': 'نیکاراگوئه', 'NE': 'نیجر', 'KP': 'کره شمالی', 'MK': 'مقدونیه شمالی', 'MP': 'جزایر ماریانای شمالی', 'OM': 'عمان', 'PW': 'پالائو', 'PS': 'فلسطین', 'PA': 'پاناما', 'PG': 'پاپوا گینه نو', 'PY': 'پاراگوئه', 'PR': 'پورتوریکو', 'RW': 'رواندا', 'KN': 'سنت کیتس و نویس', 'LC': 'سنت لوسیا', 'WS': 'ساموآ', 'SM': 'سن مارینو', 'ST': 'سائوتومه و پرنسیپ', 'SN': 'سنگال', 'RS': 'صربستان', 'SC': 'سیشل', 'SL': 'سیرالئون', 'SK': 'اسلواکی', 'SI': 'اسلوونی', 'SB': 'جزایر سلیمان', 'SO': 'سومالی', 'SS': 'سودان جنوبی', 'LK': 'سری\u200cلانکا', 'SD': 'سودان', 'SR': 'سورینام', 'SY': 'سوریه', 'TJ': 'تاجیکستان', 'TZ': 'تانزانیا', 'TL': 'تیمور شرقی', 'TG': 'توگو', 'TO': 'تونگا', 'TT': 'ترینیداد و توباگو', 'TN': 'تونس', 'TM': 'ترکمنستان', 'TV': 'تووالو', 'UG': 'اوگاندا', 'UY': 'اروگوئه', 'UZ': 'ازبکستان', 'VU': 'وانواتو', 'VE': 'ونزوئلا', 'YE': 'یمن', 'ZM': 'زامبیا', 'ZW': 'زیمبابوه', 'GG': 'گرنزی', 'JE': 'جرزی', 'IM': 'جزیره من', 'AX': 'جزایر الند', 'CW': 'کوراسائو', 'SX': 'سینت مارتن', 'BQ': 'بونیر', 'BL': 'سن بارتلمی', 'MF': 'سن مارتن', 'YT': 'مایوت', 'RE': 'رئونیون', 'MQ': 'مارتینیک', 'GP': 'گوادلوپ', 'GF': 'گویان فرانسه', 'PF': 'پلی\u200cنزی فرانسه', 'NC': 'کالدونیای جدید', 'NU': 'نیوئه', 'NF': 'جزیره نورفک', 'CX': 'جزیره کریسمس', 'PN': 'پیتکرن', 'SH': 'سنت هلنا', 'MS': 'مونتسرات', 'VG': 'جزایر ویرجین بریتانیا', 'VI': 'جزایر ویرجین آمریکا', 'TC': 'جزایر تورکس و کایکوس'}}
+for _lg in ("zh", "zh-TW", "ja", "ru", "fa"):
+    _COUNTRY_NAMES[_lg].update(_EXTRA_CN[_lg])
+
 _TZ_CONT = {'zh': {'Africa': '非洲', 'America': '美洲', 'Antarctica': '南极洲', 'Asia': '亚洲', 'Atlantic': '大西洋', 'Australia': '澳大利亚', 'Europe': '欧洲', 'Indian': '印度洋', 'Pacific': '太平洋'}, 'zh-TW': {'Africa': '非洲', 'America': '美洲', 'Antarctica': '南極洲', 'Asia': '亞洲', 'Atlantic': '大西洋', 'Australia': '澳大利亞', 'Europe': '歐洲', 'Indian': '印度洋', 'Pacific': '太平洋'}, 'ja': {'Africa': 'アフリカ', 'America': 'アメリカ', 'Antarctica': '南極', 'Asia': 'アジア', 'Atlantic': '大西洋', 'Australia': 'オーストラリア', 'Europe': 'ヨーロッパ', 'Indian': 'インド洋', 'Pacific': '太平洋'}, 'ru': {'Africa': 'Африка', 'America': 'Америка', 'Antarctica': 'Антарктида', 'Asia': 'Азия', 'Atlantic': 'Атлантика', 'Australia': 'Австралия', 'Europe': 'Европа', 'Indian': 'Индийский океан', 'Pacific': 'Тихий океан'}, 'fa': {'Africa': 'آفریقا', 'America': 'آمریکا', 'Antarctica': 'جنوبگان', 'Asia': 'آسیا', 'Atlantic': 'اقیانوس اطلس', 'Australia': 'استرالیا', 'Europe': 'اروپا', 'Indian': 'اقیانوس هند', 'Pacific': 'اقیانوس آرام'}}
 _TZ_CITY = {'zh': {'Cairo': '开罗', 'Johannesburg': '约翰内斯堡', 'Lagos': '拉各斯', 'Anchorage': '安克雷奇', 'Bogota': '波哥大', 'Chicago': '芝加哥', 'Denver': '丹佛', 'Halifax': '哈利法克斯', 'Lima': '利马', 'Los_Angeles': '洛杉矶', 'Mexico_City': '墨西哥城', 'New_York': '纽约', 'Phoenix': '菲尼克斯', 'Santiago': '圣地亚哥', 'Sao_Paulo': '圣保罗', 'St_Johns': '圣约翰斯', 'Toronto': '多伦多', 'Vancouver': '温哥华', 'Winnipeg': '温尼伯', 'Almaty': '阿拉木图', 'Bangkok': '曼谷', 'Colombo': '科伦坡', 'Dhaka': '达卡', 'Dubai': '迪拜', 'Ho_Chi_Minh': '胡志明市', 'Hong_Kong': '香港', 'Jakarta': '雅加达', 'Jerusalem': '耶路撒冷', 'Kabul': '喀布尔', 'Karachi': '卡拉奇', 'Kathmandu': '加德满都', 'Kolkata': '加尔各答', 'Kuala_Lumpur': '吉隆坡', 'Manila': '马尼拉', 'Riyadh': '利雅得', 'Seoul': '首尔', 'Shanghai': '上海', 'Singapore': '新加坡', 'Taipei': '台北', 'Tehran': '德黑兰', 'Tokyo': '东京', 'Reykjavik': '雷克雅未克', 'Adelaide': '阿德莱德', 'Brisbane': '布里斯班', 'Melbourne': '墨尔本', 'Perth': '珀斯', 'Sydney': '悉尼', 'Amsterdam': '阿姆斯特丹', 'Berlin': '柏林', 'Istanbul': '伊斯坦布尔', 'London': '伦敦', 'Madrid': '马德里', 'Moscow': '莫斯科', 'Paris': '巴黎', 'Rome': '罗马', 'Stockholm': '斯德哥尔摩', 'Vienna': '维也纳', 'Warsaw': '华沙', 'Auckland': '奥克兰', 'Chatham': '查塔姆', 'Buenos_Aires': '布宜诺斯艾利斯', 'Ulaanbaatar': '乌兰巴托', 'Honolulu': '檀香山', 'Zurich': '苏黎世', 'Lisbon': '里斯本', 'Dublin': '都柏林', 'Helsinki': '赫尔辛基', 'Oslo': '奥斯陆', 'Copenhagen': '哥本哈根', 'Prague': '布拉格', 'Budapest': '布达佩斯', 'Athens': '雅典', 'Kyiv': '基辅'}, 'zh-TW': {'Cairo': '開羅', 'Johannesburg': '約翰內斯堡', 'Lagos': '拉各斯', 'Anchorage': '安克雷奇', 'Bogota': '波哥大', 'Chicago': '芝加哥', 'Denver': '丹佛', 'Halifax': '哈利法克斯', 'Lima': '利馬', 'Los_Angeles': '洛杉磯', 'Mexico_City': '墨西哥城', 'New_York': '紐約', 'Phoenix': '菲尼克斯', 'Santiago': '聖地亞哥', 'Sao_Paulo': '聖保羅', 'St_Johns': '聖約翰斯', 'Toronto': '多倫多', 'Vancouver': '溫哥華', 'Winnipeg': '溫尼伯', 'Almaty': '阿拉木圖', 'Bangkok': '曼谷', 'Colombo': '科倫坡', 'Dhaka': '達卡', 'Dubai': '杜拜', 'Ho_Chi_Minh': '胡志明市', 'Hong_Kong': '香港', 'Jakarta': '雅加達', 'Jerusalem': '耶路撒冷', 'Kabul': '喀布爾', 'Karachi': '卡拉奇', 'Kathmandu': '加德滿都', 'Kolkata': '加爾各答', 'Kuala_Lumpur': '吉隆坡', 'Manila': '馬尼拉', 'Riyadh': '利雅得', 'Seoul': '首爾', 'Shanghai': '上海', 'Singapore': '新加坡', 'Taipei': '台北', 'Tehran': '德黑蘭', 'Tokyo': '東京', 'Reykjavik': '雷克雅未克', 'Adelaide': '阿德萊德', 'Brisbane': '布里斯班', 'Melbourne': '墨爾本', 'Perth': '珀斯', 'Sydney': '悉尼', 'Amsterdam': '阿姆斯特丹', 'Berlin': '柏林', 'Istanbul': '伊斯坦布爾', 'London': '倫敦', 'Madrid': '馬德里', 'Moscow': '莫斯科', 'Paris': '巴黎', 'Rome': '羅馬', 'Stockholm': '斯德哥爾摩', 'Vienna': '維也納', 'Warsaw': '華沙', 'Auckland': '奧克蘭', 'Chatham': '查塔姆', 'Buenos_Aires': '布宜諾斯艾利斯', 'Ulaanbaatar': '烏蘭巴托', 'Honolulu': '檀香山', 'Zurich': '蘇黎世', 'Lisbon': '里斯本', 'Dublin': '都柏林', 'Helsinki': '赫爾辛基', 'Oslo': '奧斯陸', 'Copenhagen': '哥本哈根', 'Prague': '布拉格', 'Budapest': '布達佩斯', 'Athens': '雅典', 'Kyiv': '基輔'}, 'ja': {'Cairo': 'カイロ', 'Johannesburg': 'ヨハネスブルグ', 'Lagos': 'ラゴス', 'Anchorage': 'アンカレッジ', 'Bogota': 'ボゴタ', 'Chicago': 'シカゴ', 'Denver': 'デンバー', 'Halifax': 'ハリファックス', 'Lima': 'リマ', 'Los_Angeles': 'ロサンゼルス', 'Mexico_City': 'メキシコシティ', 'New_York': 'ニューヨーク', 'Phoenix': 'フェニックス', 'Santiago': 'サンティアゴ', 'Sao_Paulo': 'サンパウロ', 'St_Johns': 'セントジョンズ', 'Toronto': 'トロント', 'Vancouver': 'バンクーバー', 'Winnipeg': 'ウィニペグ', 'Almaty': 'アルマトイ', 'Bangkok': 'バンコク', 'Colombo': 'コロンボ', 'Dhaka': 'ダッカ', 'Dubai': 'ドバイ', 'Ho_Chi_Minh': 'ホーチミン', 'Hong_Kong': '香港', 'Jakarta': 'ジャカルタ', 'Jerusalem': 'エルサレム', 'Kabul': 'カブール', 'Karachi': 'カラチ', 'Kathmandu': 'カトマンズ', 'Kolkata': 'コルカタ', 'Kuala_Lumpur': 'クアラルンプール', 'Manila': 'マニラ', 'Riyadh': 'リヤド', 'Seoul': 'ソウル', 'Shanghai': '上海', 'Singapore': 'シンガポール', 'Taipei': '台北', 'Tehran': 'テヘラン', 'Tokyo': '東京', 'Reykjavik': 'レイキャビク', 'Adelaide': 'アデレード', 'Brisbane': 'ブリスベン', 'Melbourne': 'メルボルン', 'Perth': 'パース', 'Sydney': 'シドニー', 'Amsterdam': 'アムステルダム', 'Berlin': 'ベルリン', 'Istanbul': 'イスタンブール', 'London': 'ロンドン', 'Madrid': 'マドリード', 'Moscow': 'モスクワ', 'Paris': 'パリ', 'Rome': 'ローマ', 'Stockholm': 'ストックホルム', 'Vienna': 'ウィーン', 'Warsaw': 'ワルシャワ', 'Auckland': 'オークランド', 'Chatham': 'チャタム', 'Buenos_Aires': 'ブエノスアイレス', 'Ulaanbaatar': 'ウランバートル', 'Honolulu': 'ホノルル', 'Zurich': 'チューリッヒ', 'Lisbon': 'リスボン', 'Dublin': 'ダブリン', 'Helsinki': 'ヘルシンキ', 'Oslo': 'オスロ', 'Copenhagen': 'コペンハーゲン', 'Prague': 'プラハ', 'Budapest': 'ブダペスト', 'Athens': 'アテネ', 'Kyiv': 'キーウ'}, 'ru': {'Cairo': 'Каир', 'Johannesburg': 'Йоханнесбург', 'Lagos': 'Лагос', 'Anchorage': 'Анкоридж', 'Bogota': 'Богота', 'Chicago': 'Чикаго', 'Denver': 'Денвер', 'Halifax': 'Галифакс', 'Lima': 'Лима', 'Los_Angeles': 'Лос-Анджелес', 'Mexico_City': 'Мехико', 'New_York': 'Нью-Йорк', 'Phoenix': 'Финикс', 'Santiago': 'Сантьяго', 'Sao_Paulo': 'Сан-Паулу', 'St_Johns': 'Сент-Джонс', 'Toronto': 'Торонто', 'Vancouver': 'Ванкувер', 'Winnipeg': 'Виннипег', 'Almaty': 'Алматы', 'Bangkok': 'Бангкок', 'Colombo': 'Коломбо', 'Dhaka': 'Дакка', 'Dubai': 'Дубай', 'Ho_Chi_Minh': 'Хошимин', 'Hong_Kong': 'Гонконг', 'Jakarta': 'Джакарта', 'Jerusalem': 'Иерусалим', 'Kabul': 'Кабул', 'Karachi': 'Карачи', 'Kathmandu': 'Катманду', 'Kolkata': 'Калькутта', 'Kuala_Lumpur': 'Куала-Лумпур', 'Manila': 'Манила', 'Riyadh': 'Эр-Рияд', 'Seoul': 'Сеул', 'Shanghai': 'Шанхай', 'Singapore': 'Сингапур', 'Taipei': 'Тайбэй', 'Tehran': 'Тегеран', 'Tokyo': 'Токио', 'Reykjavik': 'Рейкьявик', 'Adelaide': 'Аделаида', 'Brisbane': 'Брисбен', 'Melbourne': 'Мельбурн', 'Perth': 'Перт', 'Sydney': 'Сидней', 'Amsterdam': 'Амстердам', 'Berlin': 'Берлин', 'Istanbul': 'Стамбул', 'London': 'Лондон', 'Madrid': 'Мадрид', 'Moscow': 'Москва', 'Paris': 'Париж', 'Rome': 'Рим', 'Stockholm': 'Стокгольм', 'Vienna': 'Вена', 'Warsaw': 'Варшава', 'Auckland': 'Окленд', 'Chatham': 'Чатем', 'Buenos_Aires': 'Буэнос-Айрес', 'Ulaanbaatar': 'Улан-Батор', 'Honolulu': 'Гонолулу', 'Zurich': 'Цюрих', 'Lisbon': 'Лиссабон', 'Dublin': 'Дублин', 'Helsinki': 'Хельсинки', 'Oslo': 'Осло', 'Copenhagen': 'Копенгаген', 'Prague': 'Прага', 'Budapest': 'Будапешт', 'Athens': 'Афины', 'Kyiv': 'Киев'}, 'fa': {'Cairo': 'قاهره', 'Johannesburg': 'ژوهانسبورگ', 'Lagos': 'لاگوس', 'Anchorage': 'انکوریج', 'Bogota': 'بوگوتا', 'Chicago': 'شیکاگو', 'Denver': 'دنور', 'Halifax': 'هالیفاکس', 'Lima': 'لیما', 'Los_Angeles': 'لس\u200cآنجلس', 'Mexico_City': 'مکزیکوسیتی', 'New_York': 'نیویورک', 'Phoenix': 'فینیکس', 'Santiago': 'سانتیاگو', 'Sao_Paulo': 'سائوپائولو', 'St_Johns': 'سنت جانز', 'Toronto': 'تورنتو', 'Vancouver': 'ونکوور', 'Winnipeg': 'وینیپگ', 'Almaty': 'آلماتی', 'Bangkok': 'بانکوک', 'Colombo': 'کلمبو', 'Dhaka': 'داکا', 'Dubai': 'دبی', 'Ho_Chi_Minh': 'هوشی\u200cمین', 'Hong_Kong': 'هنگ\u200cکنگ', 'Jakarta': 'جاکارتا', 'Jerusalem': 'اورشلیم', 'Kabul': 'کابل', 'Karachi': 'کراچی', 'Kathmandu': 'کاتماندو', 'Kolkata': 'کلکته', 'Kuala_Lumpur': 'کوالالامپور', 'Manila': 'مانیل', 'Riyadh': 'ریاض', 'Seoul': 'سئول', 'Shanghai': 'شانگهای', 'Singapore': 'سنگاپور', 'Taipei': 'تایپه', 'Tehran': 'تهران', 'Tokyo': 'توکیو', 'Reykjavik': 'ریکیاویک', 'Adelaide': 'آدلاید', 'Brisbane': 'بریزبن', 'Melbourne': 'ملبورن', 'Perth': 'پرت', 'Sydney': 'سیدنی', 'Amsterdam': 'آمستردام', 'Berlin': 'برلین', 'Istanbul': 'استانبول', 'London': 'لندن', 'Madrid': 'مادرید', 'Moscow': 'مسکو', 'Paris': 'پاریس', 'Rome': 'رم', 'Stockholm': 'استکهلم', 'Vienna': 'وین', 'Warsaw': 'ورشو', 'Auckland': 'اوکلند', 'Chatham': 'چتم', 'Buenos_Aires': 'بوئنوس آیرس', 'Ulaanbaatar': 'اولان\u200cباتور', 'Honolulu': 'هونولولو', 'Zurich': 'زوریخ', 'Lisbon': 'لیسبون', 'Dublin': 'دوبلین', 'Helsinki': 'هلسینکی', 'Oslo': 'اسلو', 'Copenhagen': 'کپنهاگ', 'Prague': 'پراگ', 'Budapest': 'بوداپست', 'Athens': 'آتن', 'Kyiv': 'کی\u200cیف'}}
 _UTC_NAMES = {"zh": "协调世界时", "zh-TW": "協調世界時", "ja": "協定世界時",
@@ -2164,11 +2169,119 @@ _ANY_REGION2EN = _any2en(_REGION_L10N)
 _ANY_CITY2EN = _any2en(_CITY_L10N)
 
 
+
+
+# ---- 在线地名兜底 (本地表未收录时查 Wikidata 官方条目名, 结果仅用于显示层) ----
+_GEO_EXTRA = {"lang": None, "city": {}, "region": {}}
+_WD_LANGS = {"zh": ["zh", "zh-cn", "zh-hans"], "zh-TW": ["zh-tw", "zh-hant", "zh"],
+             "ja": ["ja"], "ru": ["ru"], "fa": ["fa"]}
+_WD_PLACE = ("city", "town", "village", "municipality", "settlement", "borough",
+             "commune", "capital", "county seat", "census-designated", "urban")
+_WD_ADMIN = ("province", "state", "krai", "oblast", "canton", "prefecture",
+             "region", "county", "district", "territory", "department",
+             "governorate")
+
+
+def _wd_label(name, kind, context):
+    """Wikidata 检索地名条目, 返回界面语言的条目名 (去消歧后缀); 无则 None。"""
+    try:
+        q = urllib.parse.quote(context or name)
+        ok, raw = http_get("https://www.wikidata.org/w/api.php?action=wbsearchentities"
+                           f"&search={q}&language=en&format=json&limit=5&type=item",
+                           timeout=5, retries=1, use_cache=False)
+        if not ok:
+            return None
+        cands = json.loads(raw).get("search", [])
+        words = _WD_PLACE if kind == "city" else _WD_ADMIN
+        pick = None
+        for c in cands:
+            if (c.get("label") or "").lower() != name.lower():
+                continue
+            desc = (c.get("description") or "").lower()
+            if any(w in desc for w in words):
+                pick = c
+                break
+        if pick is None:
+            return None
+        langs = _WD_LANGS.get(LANG, [])
+        if not langs:
+            return None
+        ok, raw = http_get("https://www.wikidata.org/w/api.php?action=wbgetentities"
+                           f"&ids={pick['id']}&props=labels"
+                           f"&languages={'|'.join(langs)}&format=json",
+                           timeout=5, retries=1, use_cache=False)
+        if not ok:
+            return None
+        labels = json.loads(raw)["entities"][pick["id"]].get("labels", {})
+        for lg in langs:
+            if lg in labels:
+                v = re.sub(r"\s*[\(（][^\)）]*[\)）]\s*$", "",
+                           labels[lg]["value"]).strip()
+                return v or None
+        return None
+    except Exception:
+        return None
+
+
+def _resolve_geo_online(jobs):
+    """jobs: [(kind, name, context)]; 本地表未收录的 ASCII 地名并行查 Wikidata。"""
+    if LANG == "en" or not jobs:
+        return
+    if _GEO_EXTRA["lang"] != LANG:
+        _GEO_EXTRA.update({"lang": LANG, "city": {}, "region": {}})
+    todo, seen = [], set()
+    for kind, name, ctx in jobs:
+        name = (name or "").strip()
+        if not name or len(name) < 3 or any(ch.isdigit() for ch in name):
+            continue
+        if not name.isascii():
+            continue  # 已是本地化文本的不拿去英文库检索
+        if name in _GEO_EXTRA[kind]:
+            continue
+        any2en = _ANY_CITY2EN if kind == "city" else _ANY_REGION2EN
+        table = _CITY_L10N if kind == "city" else _REGION_L10N
+        en = any2en.get(name)
+        if en and table.get(LANG, {}).get(en):
+            continue  # 本地表已收录
+        if (kind, name) in seen:
+            if ctx and ctx.isascii():
+                todo = [(k, n, ctx if (k, n) == (kind, name) else c)
+                        for (k, n, c) in todo]
+            continue
+        seen.add((kind, name))
+        todo.append((kind, name, ctx))
+    todo = todo[:6]
+
+    def _one(job):
+        kind, name, ctx = job
+        v = _wd_label(name, kind, ctx)
+        if v:
+            _GEO_EXTRA[kind][name] = v
+            any2en = _ANY_CITY2EN if kind == "city" else _ANY_REGION2EN
+            any2en[v] = any2en.get(name, name)
+
+    if todo:
+        with ThreadPoolExecutor(max_workers=4) as ex:
+            list(ex.map(_one, todo))
+
+
+def _extra_sub(disp, kind):
+    """把在线兜底命中的地名替换进对比行整串。"""
+    if _GEO_EXTRA.get("lang") != LANG:
+        return disp
+    for variant, loc in _GEO_EXTRA[kind].items():
+        if variant in disp:
+            disp = disp.replace(variant, loc, 1)
+    return disp
+
 def _loc_region(text):
     """州/省名 -> 界面语言 (任一语言变体先归一到英文再查表; 未收录原样)。"""
     if LANG == "en" or not text:
         return text
-    en = _ANY_REGION2EN.get(str(text).strip())
+    t = str(text).strip()
+    if _GEO_EXTRA.get("lang") == LANG and t in _GEO_EXTRA["region"]:
+        return _GEO_EXTRA["region"][t]
+    en = _ANY_REGION2EN.get(t)
     if en:
         return _REGION_L10N.get(LANG, {}).get(en, text)
     return text
@@ -2178,7 +2291,10 @@ def _loc_city(text):
     """城市名 -> 界面语言 (同上)。"""
     if LANG == "en" or not text:
         return text
-    en = _ANY_CITY2EN.get(str(text).strip())
+    t = str(text).strip()
+    if _GEO_EXTRA.get("lang") == LANG and t in _GEO_EXTRA["city"]:
+        return _GEO_EXTRA["city"][t]
+    en = _ANY_CITY2EN.get(t)
     if en:
         return _CITY_L10N.get(LANG, {}).get(en, text)
     return text
@@ -2277,7 +2393,7 @@ class IPInfo(Provider):
 
     def check(self, ip):
         ok, raw = http_get(f"https://ipinfo.io/{ip}/json",
-                           headers={"User-Agent": "A-Check/4.14.14 (+https://github.com/alariclin/A-Check)"},
+                           headers={"User-Agent": "A-Check/4.14.15 (+https://github.com/alariclin/A-Check)"},
                            use_cache=False)
         if not ok:
             return {"ok": False, "err": raw}
@@ -3142,7 +3258,7 @@ def _build_unified_profile(s):
 
 SCORING_RULES = {
     "zh": """
-评分规则 (v4.14.14 免 Key 公开版):
+评分规则 (v4.14.15 免 Key 公开版):
   [威胁行为 0-100] 实际恶意行为证据
     StopForumSpam 垃圾举报命中 (每次+3, 上限25)
     SANS ISC 蜜罐攻击记录 (5 + count//5, 上限25)
@@ -3174,7 +3290,7 @@ SCORING_RULES = {
     主动模式双栈对照: IPv6 出口/泄漏判定/流媒体与测速分栈实测
 """,
     "zh-TW": """
-評分規則 (v4.14.14 免 Key 公開版):
+評分規則 (v4.14.15 免 Key 公開版):
   [威脅行為 0-100] 實際惡意行為證據
     StopForumSpam 垃圾舉報命中 (每次+3, 上限25)
     SANS ISC 蜜罐攻擊記錄 (5 + count//5, 上限25)
@@ -3206,7 +3322,7 @@ SCORING_RULES = {
     主動模式雙棧對照: IPv6 出口/洩漏判定/串流與測速分棧實測
 """,
     "en": """
-Scoring rules (v4.14.14 Keyless Public Edition):
+Scoring rules (v4.14.15 Keyless Public Edition):
   [Threat 0-100] Evidence of malicious behavior
     StopForumSpam abuse hits (+3 each, max 25)
     SANS ISC honeypot attacks (5 + count//5, max 25)
@@ -3239,7 +3355,7 @@ Scoring rules (v4.14.14 Keyless Public Edition):
     Active mode is dual-stack: IPv6 egress/leak check, per-stack streaming & speed
 """,
     "ja": """
-スコアリングルール (v4.14.14 キー不要公開版):
+スコアリングルール (v4.14.15 キー不要公開版):
   [脅威行為 0-100] 悪意ある活動の証拠
     StopForumSpam スパム報告 (+3/件, 最大25)
     SANS ISC ハニーポット攻撃記録 (5 + count//5, 最大25)
@@ -3271,7 +3387,7 @@ Scoring rules (v4.14.14 Keyless Public Edition):
     アクティブモードはデュアルスタック: IPv6出口/リーク判定/ストリーミングと速度をスタック別に実測
 """,
     "ru": """
-Правила оценки (v4.14.14 Публичная версия без ключей):
+Правила оценки (v4.14.15 Публичная версия без ключей):
   [Угрозы 0-100] Доказательства вредоносной активности
     StopForumSpam жалобы (+3 за каждую, макс. 25)
     SANS ISC атаки (5 + count//5, макс. 25)
@@ -3303,7 +3419,7 @@ Scoring rules (v4.14.14 Keyless Public Edition):
     Активный режим — двойной стек: выход IPv6/проверка утечки, стриминг и скорость по стекам
 """,
     "fa": """
-قوانین امتیازدهی (نسخه عمومی بدون کلید v4.14.14):
+قوانین امتیازدهی (نسخه عمومی بدون کلید v4.14.15):
   [رفتار تهدید 0-100] شواهد فعالیت مخرب
     StopForumSpam گزارش اسپم (+3 هر مورد، حداکثر 25)
     SANS ISC حملات ثبتشده (5 + count//5، حداکثر 25)
@@ -3585,9 +3701,21 @@ def run_passive(ip):
             pass
         return p.key, res
 
-    with ThreadPoolExecutor(max_workers=14) as ex:
-        for k, v in ex.map(_query_one, avail_providers):
-            sources[k] = v
+    _ex = ThreadPoolExecutor(max_workers=14)
+    try:
+        _futs = {_ex.submit(_query_one, p): p for p in avail_providers}
+        try:
+            for _f in as_completed(_futs, timeout=30):
+                _k, _v = _f.result()
+                sources[_k] = _v
+        except _CFTimeoutError:
+            pass
+        for _f, _p in _futs.items():
+            if _p.key not in sources:
+                sources[_p.key] = {"ok": False, "err": "timeout"}
+                _f.cancel()
+    finally:
+        _ex.shutdown(wait=False)
 
     if "--json" not in sys.argv:
         print("\r" + " " * max(40, min(76, shutil.get_terminal_size((80, 24)).columns - 2)) + "\r", end="", flush=True)
@@ -4114,6 +4242,25 @@ def _print_basic_block(s, prof):
     if gjs.get("ok") and (gjs.get("country") or gjs.get("city")):
         locs.append(("GeoJS", f"{gjs.get('country')} {gjs.get('region')} {gjs.get('city')}".strip(),
                      gjs.get("country"), gjs.get("city")))
+    _gjobs = []
+    if prof.get("city"):
+        _gjobs.append(("city", prof["city"],
+                       f"{prof.get('city')}, {_ANY_REGION2EN.get(str(prof.get('region') or '').strip(), prof.get('region'))}"))
+    if prof.get("region"):
+        _gjobs.append(("region", prof["region"],
+                       f"{prof.get('region')}, {prof.get('country')}"))
+    for _nm, _loc, _co, _ci in locs:
+        _mid = _loc
+        if _co and _mid.startswith(_co):
+            _mid = _mid[len(_co):].strip()
+        if _ci and _mid.endswith(_ci):
+            _mid = _mid[:-len(_ci)].strip()
+        if _ci:
+            _gjobs.append(("city", _ci,
+                           f"{_ci}, {_ANY_REGION2EN.get(_mid, _mid)}"))
+        if _mid:
+            _gjobs.append(("region", _mid, _loc))
+    _resolve_geo_online(_gjobs)
     if locs:
         _CC = {"united states": "us", "united states of america": "us",
                "china": "cn", "australia": "au", "canada": "ca",
@@ -4211,7 +4358,7 @@ def _print_basic_block(s, prof):
             for k in _order:
                 _loc, _names = _groups[k]
                 _gf = _fl(k[0] if len(k[0]) == 2 and k[0].isalpha() and k[0].isascii() else "")
-                print(f"  {_gf}{_c(C.dim, _lbl + ':')} {_loc_sub_in(_loc_sub_in(_loc_display(_loc), _ANY_REGION2EN, _REGION_L10N), _ANY_CITY2EN, _CITY_L10N)}")
+                print(f"  {_gf}{_c(C.dim, _lbl + ':')} {_extra_sub(_extra_sub(_loc_sub_in(_loc_sub_in(_loc_display(_loc), _ANY_REGION2EN, _REGION_L10N), _ANY_CITY2EN, _CITY_L10N), "region"), "city")}")
         else:
             print(f"  {T('no_loc_data')}")
     elif not locs:
@@ -4799,7 +4946,7 @@ def get_egress_ip():
     ]
     for url in sources:
         try:
-            _ua = {"User-Agent": "A-Check/4.14.14 (+https://github.com/alariclin/A-Check)"} if "ipinfo.io" in url else {"User-Agent": UA_BROWSER}
+            _ua = {"User-Agent": "A-Check/4.14.15 (+https://github.com/alariclin/A-Check)"} if "ipinfo.io" in url else {"User-Agent": UA_BROWSER}
             req = urllib.request.Request(url, headers=_ua)
             with urllib.request.urlopen(req, timeout=6) as r:
                 raw = r.read(512).decode("utf-8", errors="replace").strip()

diff --git a/README.en.md b/README.en.md
@@ -3,7 +3,7 @@
   <h1>A-Check</h1>
   <p><b>IP reputation & network quality checker</b> — multi-source aggregation · dual mode · single file, zero dependencies</p>
   <p>
-    <img src="https://img.shields.io/badge/version-v4.14.14-blue" alt="version">
+    <img src="https://img.shields.io/badge/version-v4.14.15-blue" alt="version">
     <img src="https://img.shields.io/badge/python-3.8+-green" alt="python">
     <img src="https://img.shields.io/badge/license-MIT-lightgrey" alt="license">
     <img src="https://img.shields.io/badge/platform-macOS%20%7C%20Windows%20%7C%20Linux-orange" alt="platform">
@@ -97,17 +97,17 @@ Download the package for your system from [Releases](https://github.com/alaricli
 
 macOS:
 ```
-curl -sL https://github.com/alariclin/A-Check/releases/download/v4.14.14/A-Check-v4.14.14-mac-app.zip -o acheck-app.zip && unzip -qo acheck-app.zip && open A-Check.app
+curl -sL https://github.com/alariclin/A-Check/releases/download/v4.14.15/A-Check-v4.14.15-mac-app.zip -o acheck-app.zip && unzip -qo acheck-app.zip && open A-Check.app
 ```
 
 Linux / VPS:
 ```
-curl -sL https://github.com/alariclin/A-Check/releases/download/v4.14.14/A-Check-v4.14.14-linux.zip -o acheck.zip && unzip -qo acheck.zip && cd acheck-linux && bash run.sh
+curl -sL https://github.com/alariclin/A-Check/releases/download/v4.14.15/A-Check-v4.14.15-linux.zip -o acheck.zip && unzip -qo acheck.zip && cd acheck-linux && bash run.sh
 ```
 
 Windows (PowerShell):
 ```
-Invoke-WebRequest https://github.com/alariclin/A-Check/releases/download/v4.14.14/A-Check-v4.14.14-windows.zip -OutFile acheck.zip; Expand-Archive acheck.zip -Force; cd acheck-win; .\run.bat
+Invoke-WebRequest https://github.com/alariclin/A-Check/releases/download/v4.14.15/A-Check-v4.14.15-windows.zip -OutFile acheck.zip; Expand-Archive acheck.zip -Force; cd acheck-win; .\run.bat
 ```
 
 Any system (single file, Python 3.8+):

diff --git a/README.md b/README.md
@@ -3,7 +3,7 @@
   <h1>A-Check</h1>
   <p><b>IP reputation & network quality checker</b> — multi-source aggregation · dual mode · single file, zero dependencies</p>
   <p>
-    <img src="https://img.shields.io/badge/version-v4.14.14-blue" alt="version">
+    <img src="https://img.shields.io/badge/version-v4.14.15-blue" alt="version">
     <img src="https://img.shields.io/badge/python-3.8+-green" alt="python">
     <img src="https://img.shields.io/badge/license-MIT-lightgrey" alt="license">
     <img src="https://img.shields.io/badge/platform-macOS%20%7C%20Windows%20%7C%20Linux-orange" alt="platform">
@@ -97,17 +97,17 @@ Download the package for your system from [Releases](https://github.com/alaricli
 
 macOS:
 ```
-curl -sL https://github.com/alariclin/A-Check/releases/download/v4.14.14/A-Check-v4.14.14-mac-app.zip -o acheck-app.zip && unzip -qo acheck-app.zip && open A-Check.app
+curl -sL https://github.com/alariclin/A-Check/releases/download/v4.14.15/A-Check-v4.14.15-mac-app.zip -o acheck-app.zip && unzip -qo acheck-app.zip && open A-Check.app
 ```
 
 Linux / VPS:
 ```
-curl -sL https://github.com/alariclin/A-Check/releases/download/v4.14.14/A-Check-v4.14.14-linux.zip -o acheck.zip && unzip -qo acheck.zip && cd acheck-linux && bash run.sh
+curl -sL https://github.com/alariclin/A-Check/releases/download/v4.14.15/A-Check-v4.14.15-linux.zip -o acheck.zip && unzip -qo acheck.zip && cd acheck-linux && bash run.sh
 ```
 
 Windows (PowerShell):
 ```
-Invoke-WebRequest https://github.com/alariclin/A-Check/releases/download/v4.14.14/A-Check-v4.14.14-windows.zip -OutFile acheck.zip; Expand-Archive acheck.zip -Force; cd acheck-win; .\run.bat
+Invoke-WebRequest https://github.com/alariclin/A-Check/releases/download/v4.14.15/A-Check-v4.14.15-windows.zip -OutFile acheck.zip; Expand-Archive acheck.zip -Force; cd acheck-win; .\run.bat
 ```
 
 Any system (single file, Python 3.8+):
